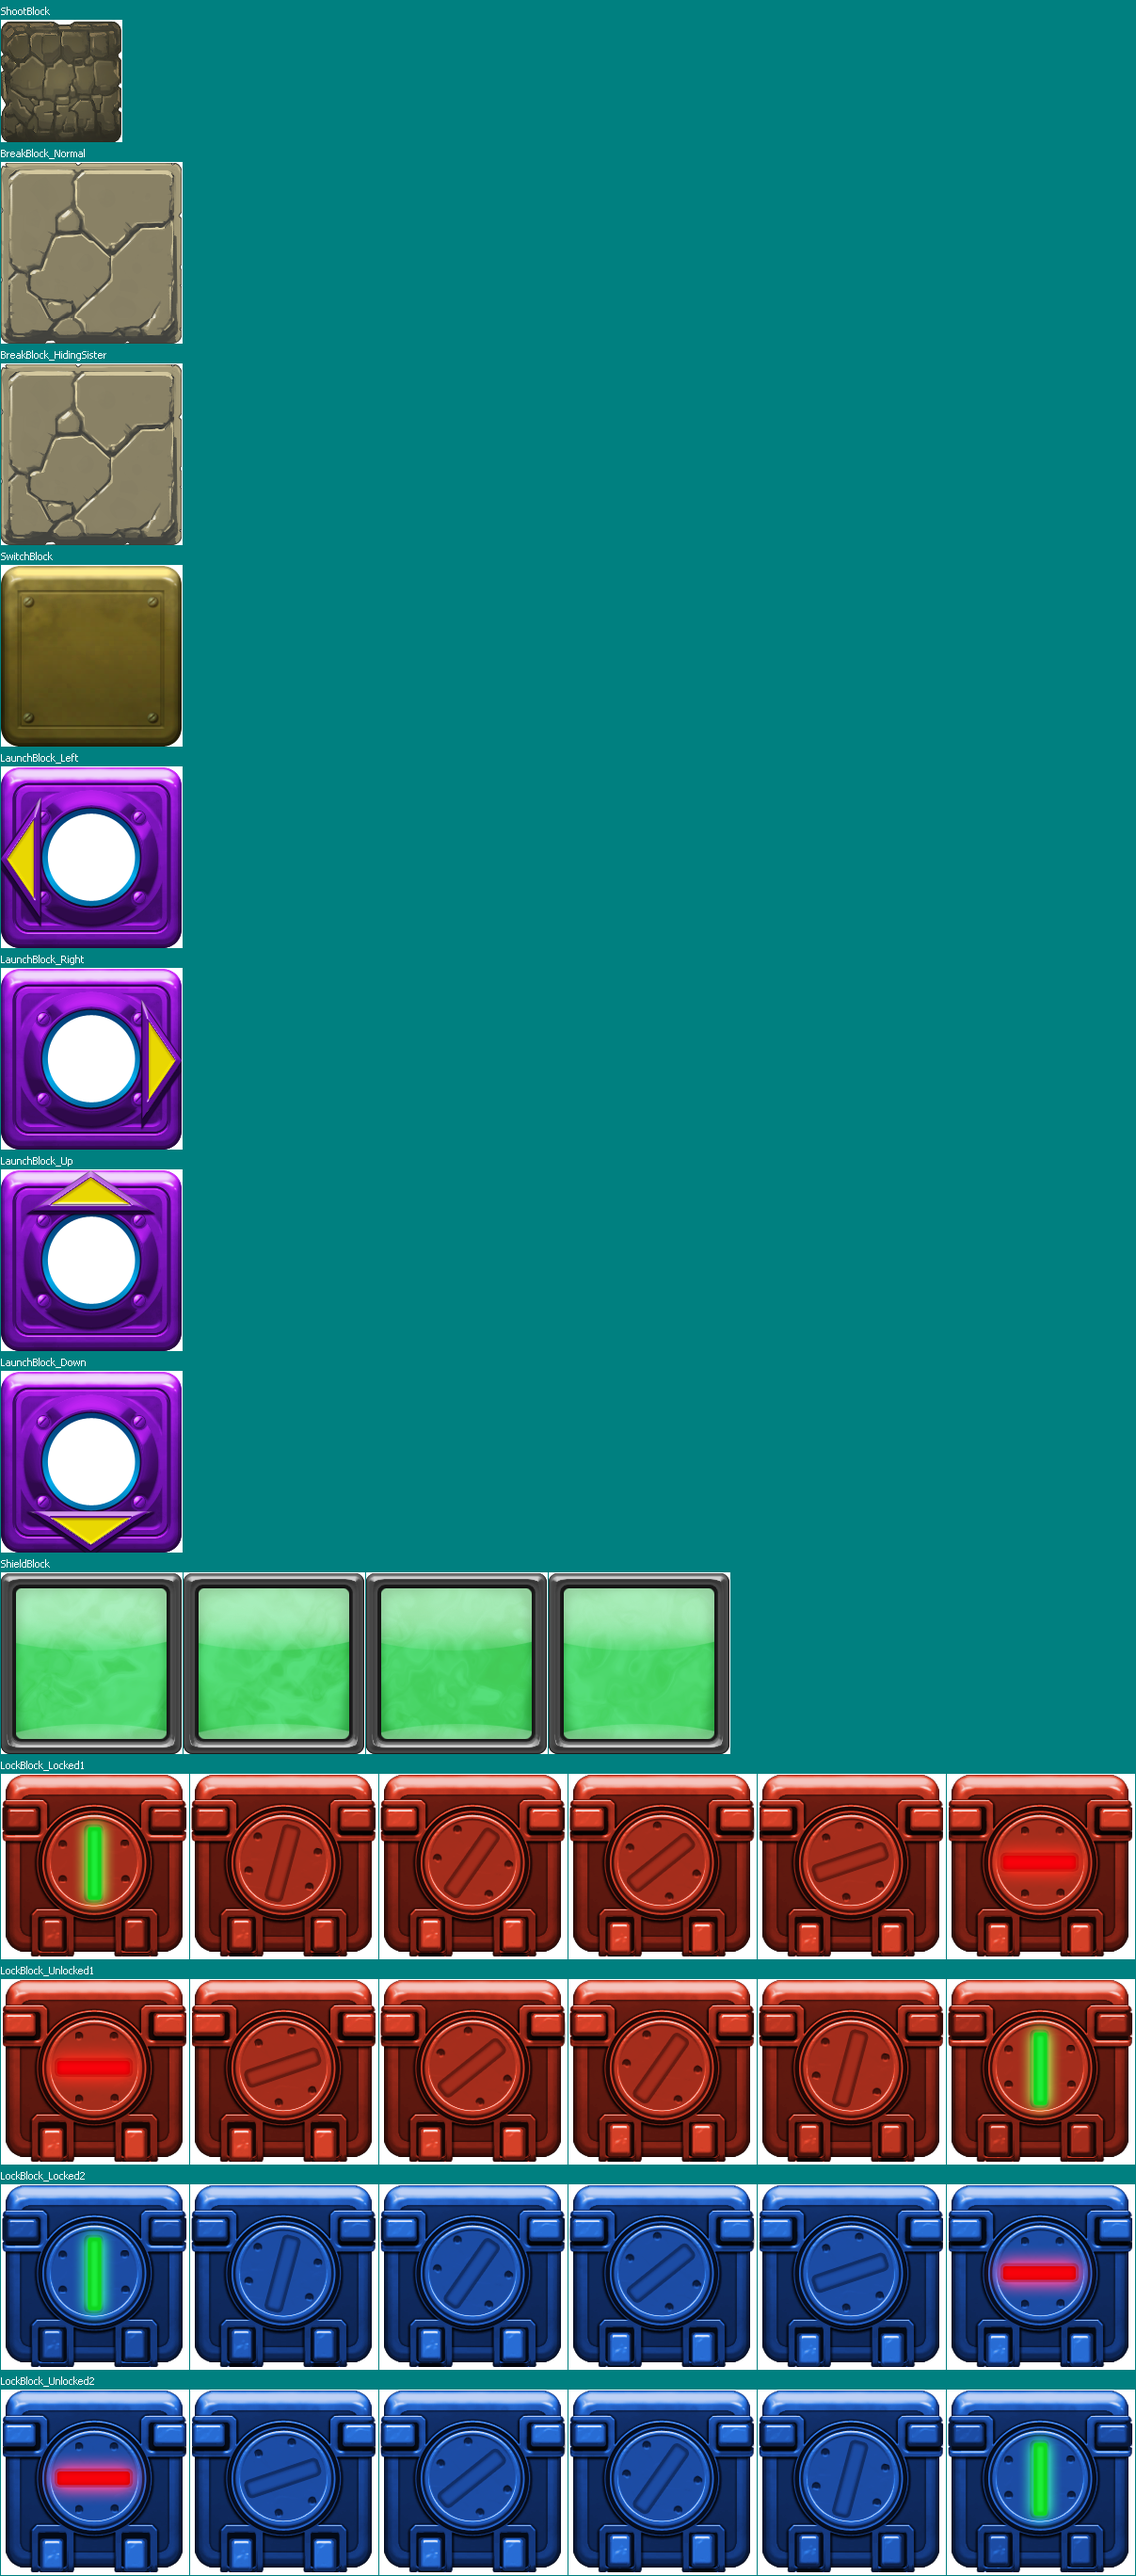
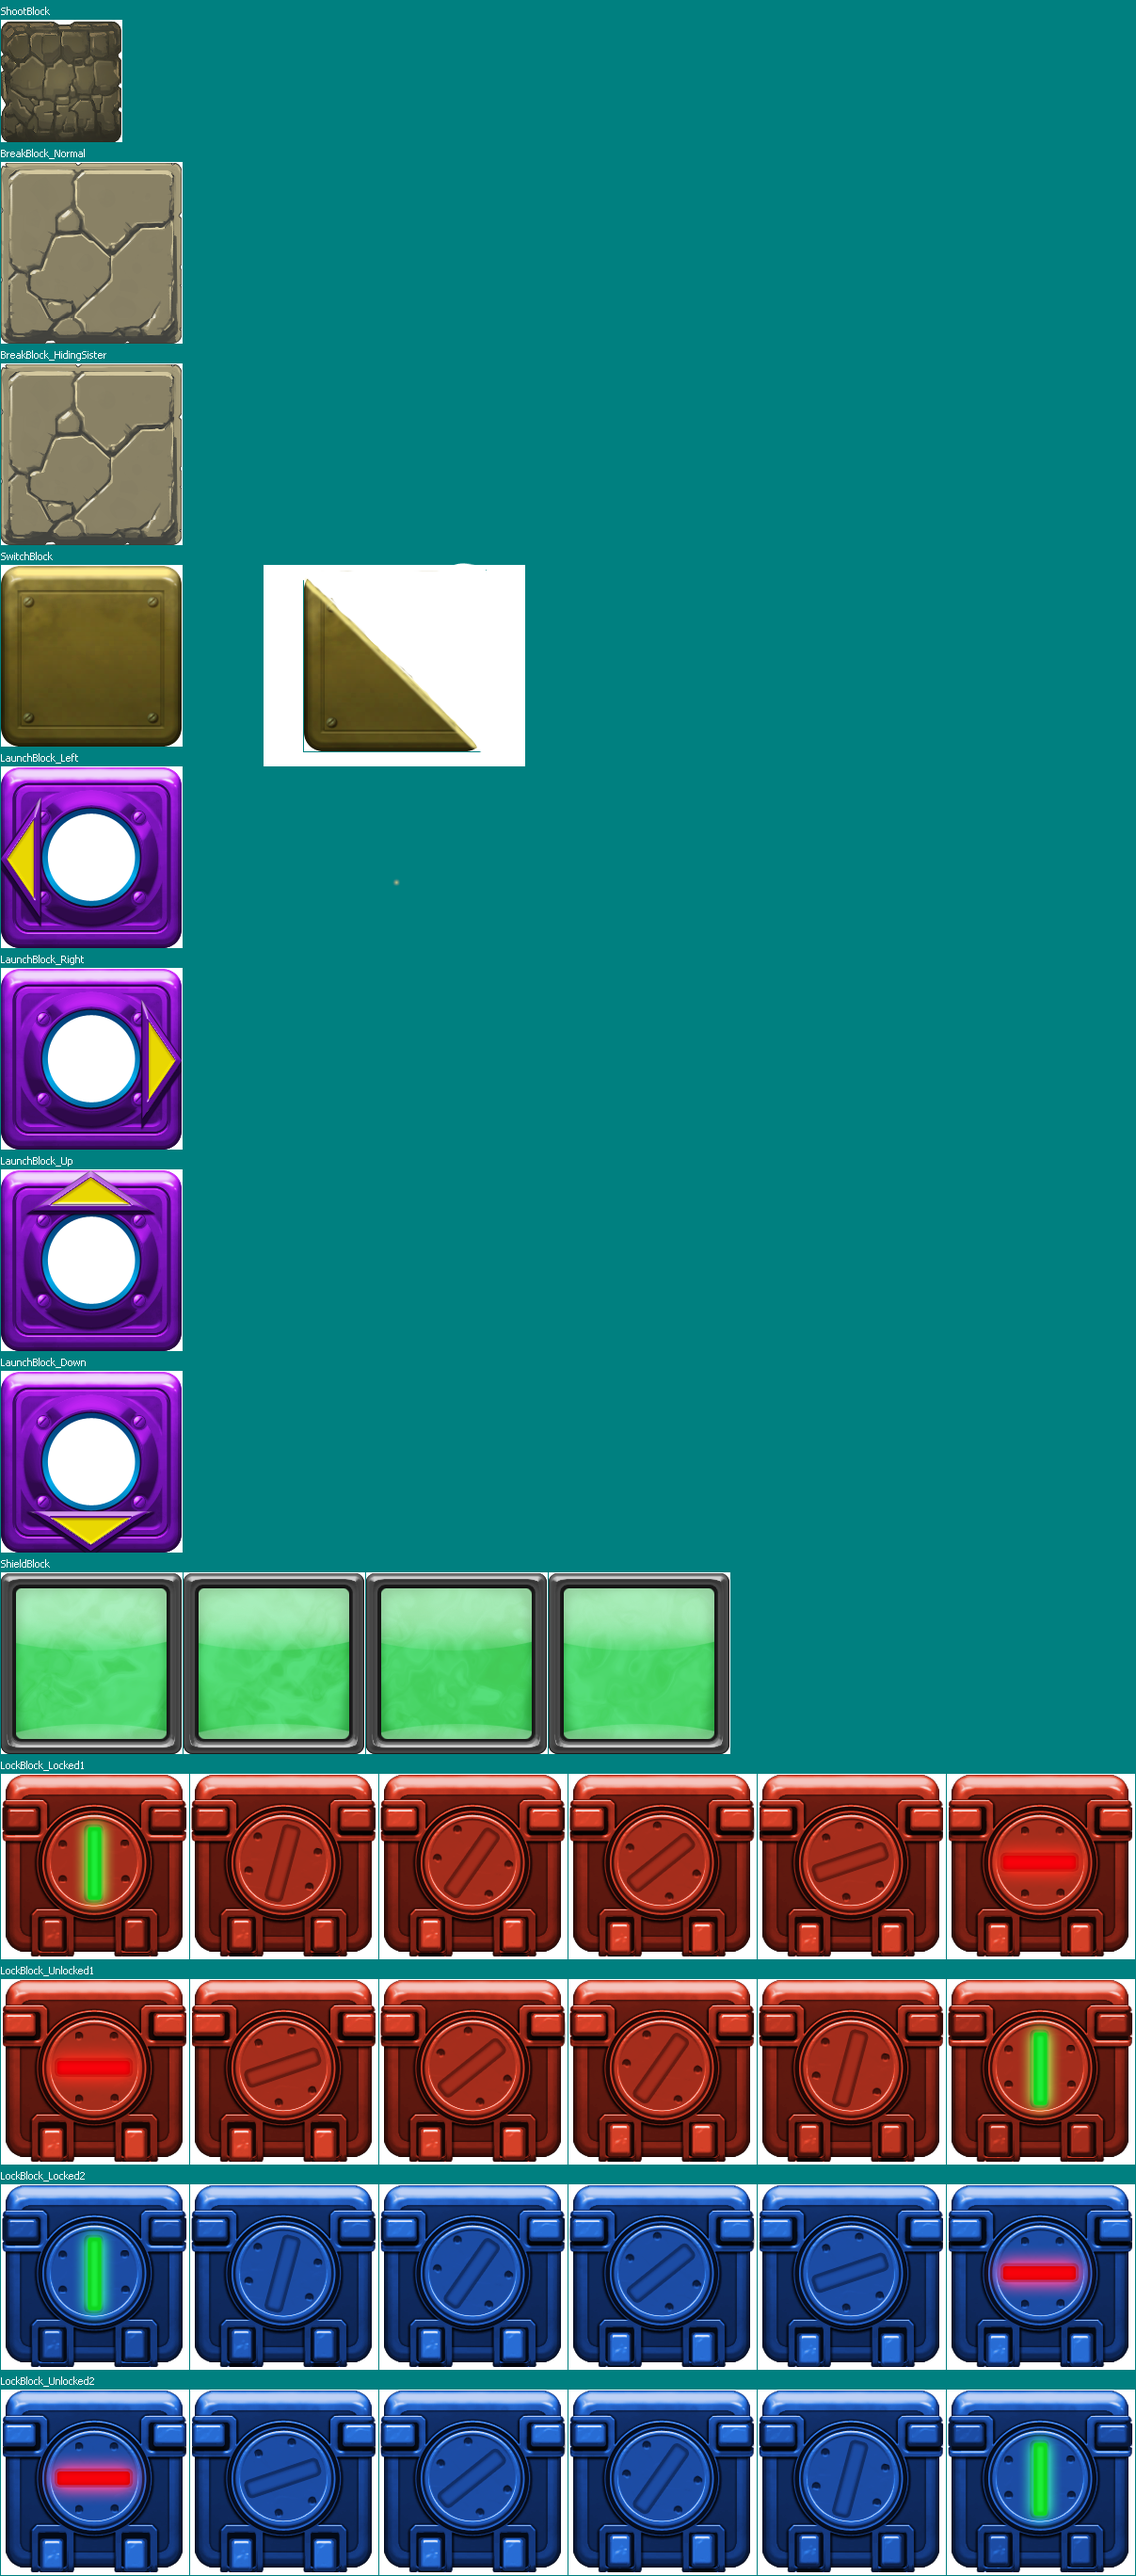
Added 45 degree block

Changed region(s): [[0.2146, 0.2175, 0.4598, 0.3107]]

diff --git a/client/main.cpp b/client/main.cpp
@@ -38,9 +38,6 @@ int main(int argc, char** argv){
         // Chell turning around
         //AnimatedSprite sprite("chell.png", renderer, 292, 209, 1, 3753, 8, 8, 0, 0, 292, 209, 1, 0);
 
-        // Chell dying
-        //AnimatedSprite sprite("chell.png", renderer, 199, 274, 1, 8340, 12 , 72, 0, 0, 199, 273, 1, 1);
-
         ProtectedBlockingQueue blockingQueue;
         SafeQueue safeQueue;
         safeQueue.push((void*) new int());
